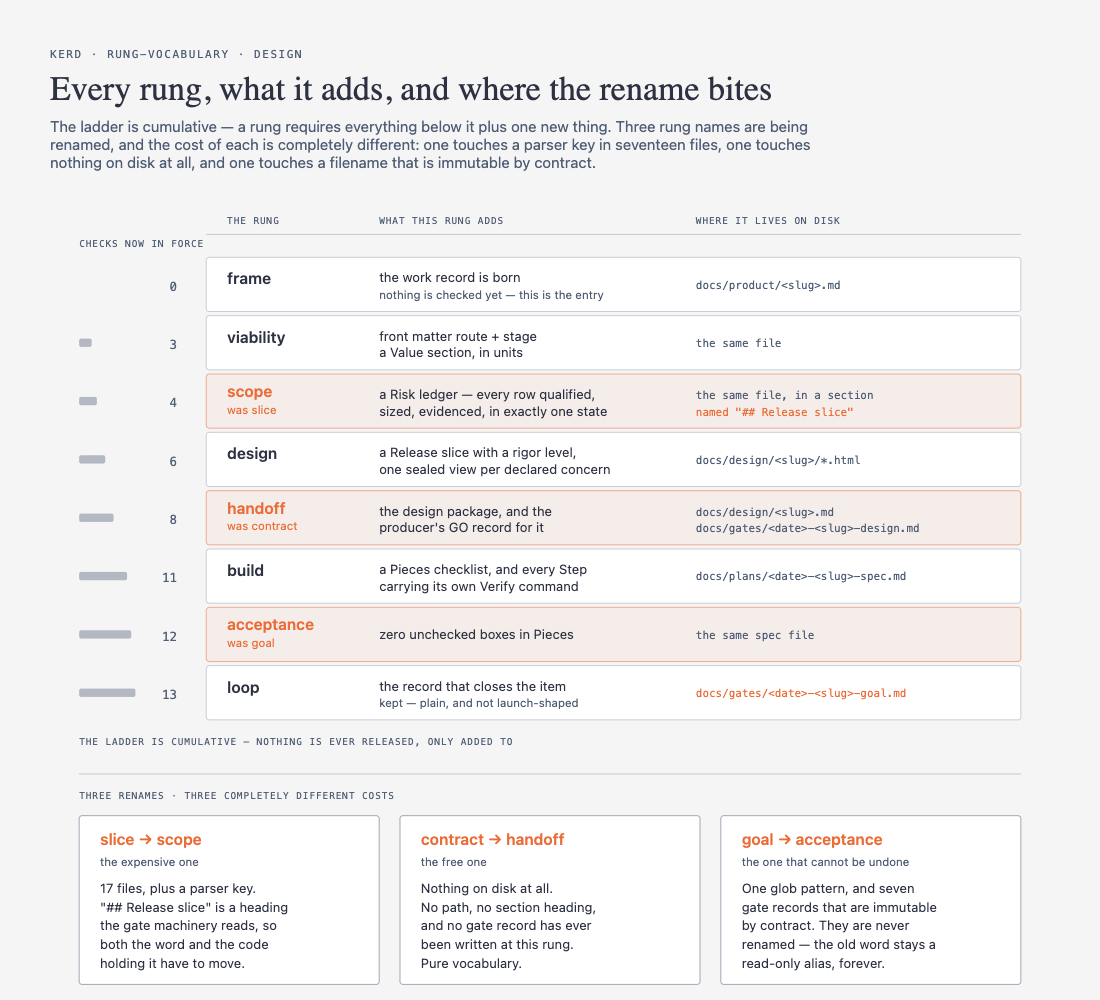
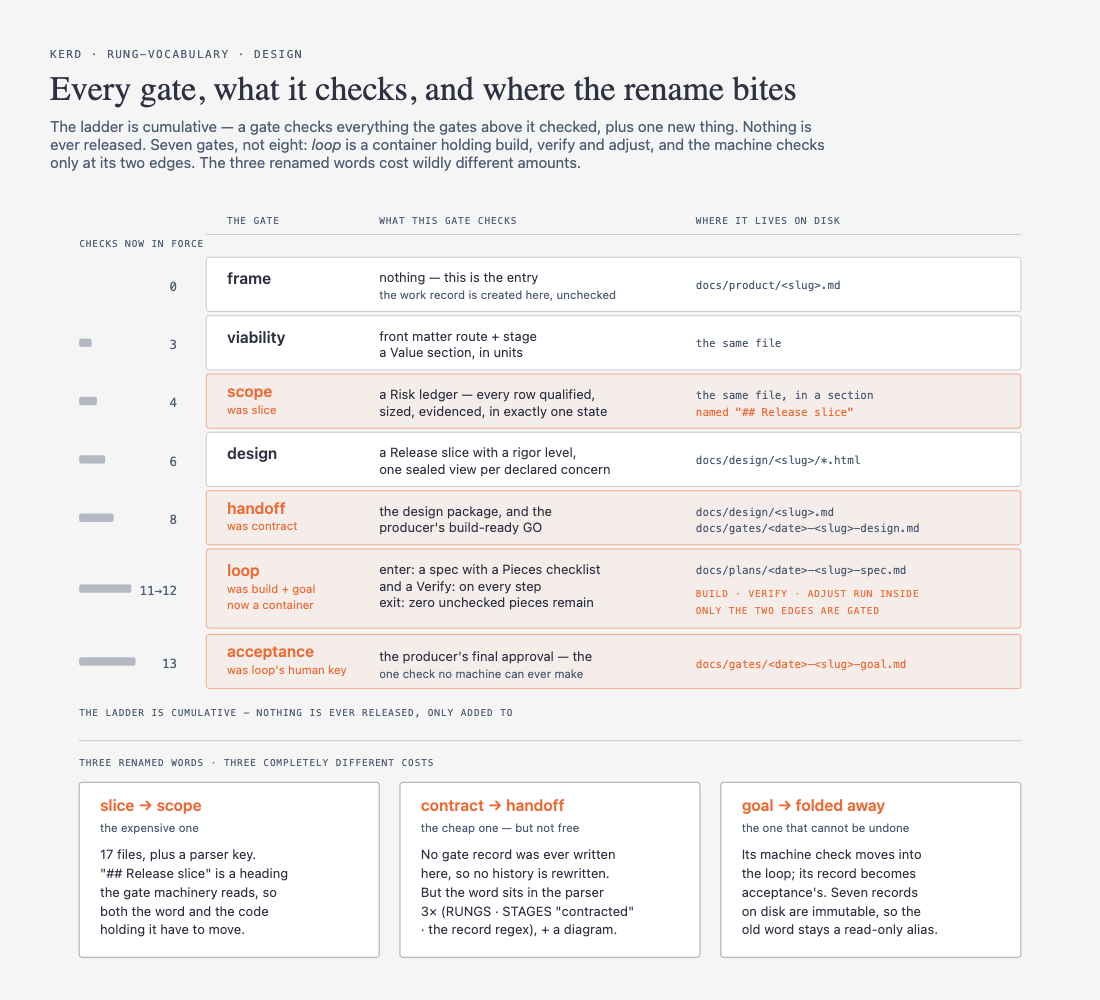
Seal the-ladder; correct the matrix view's overclaim and its mixed column
the-ladder.html approved by Tony 2026-08-23 (fp:a6fe2ec1e1c3) — unchanged
since he reviewed it.

rungs-and-artifacts.html was drawn before the restructure and still showed
build, acceptance and loop as peer rows. Redrawn for seven gates, with loop
as one row carrying both gated edges and acceptance last.

Two corrections from the review, both real:

  - The handoff panel overclaimed. "Nothing on disk at all · pure vocabulary"
    is false: `contract` has no immutable gate record (0 on disk, verified),
    but it sits in the parser three times — RUNGS, STAGES as `contracted`,
    and GATE_RECORD_RE — plus a flow diagram and its generator. Now reads
    "the cheap one — but not free" with those counts.

  - The middle column mixed two ideas: what a gate CHECKS and what it
    PRODUCES. It is derived from check_rung, so it is checks. Column, title
    and heading all now say checks, and the frame row reads "nothing — this
    is the entry" rather than describing a produced artifact.

Still unapproved, so the item correctly stays at slice.

Claude-Session: https://claude.ai/code/session_01EhZfBJVAkJfHw2HhQ86Ldf

diff --git a/docs/design/rung-vocabulary/rungs-and-artifacts.html b/docs/design/rung-vocabulary/rungs-and-artifacts.html
@@ -2,7 +2,7 @@
 <html lang="en">
 <head>
   <meta charset="utf-8">
-  <title>Every rung, what it adds, and where the rename bites</title>
+  <title>Every gate, what it checks, and where the rename bites</title>
   <style>
     :root{--color-paper:#f5f5f5;--color-ink:#2d3142;--color-muted:#4f5d75;
           --color-accent:#eb6c36;--font-sans:'Geist',system-ui,sans-serif;
@@ -18,17 +18,18 @@
 <body>
   <div class="wrap">
     <p class="eyebrow">Kerd · rung-vocabulary · design</p>
-    <h1>Every rung, what it adds, and where the rename bites</h1>
-    <p class="sub">The ladder is cumulative — a rung requires everything below it plus one new thing. Three rung names are being renamed, and the cost of each is completely different: one touches a parser key in seventeen files, one touches nothing on disk at all, and one touches a filename that is immutable by contract.</p>
-    <svg viewBox="0 0 960 792" role="img" aria-labelledby="rv-t rv-d">
-      <title id="rv-t">The eight rungs, the artifact each one adds, and the cost of the three renames</title>
-      <desc id="rv-d">A table of the eight ladder rungs read top to bottom: frame, viability, scope (renamed from slice), design, handoff (renamed from contract), build, acceptance (renamed from goal), and loop. For each rung, the middle column names the one new thing that rung requires and the right column names the file on disk that holds it. Requirements accumulate: a rung needs everything the rungs below it needed, plus its own. Below the table, three panels compare the real cost of the three renames. Renaming slice to scope costs seventeen files plus a parser key, because the section heading Release slice is read by the gate machinery. Renaming contract to handoff costs nothing on disk, because no path, section heading or gate record has ever carried the word. Renaming goal to acceptance costs one glob pattern plus seven immutable gate records, which are never rewritten and instead keep the old name as a read-only parser alias forever.</desc>
+    <h1>Every gate, what it checks, and where the rename bites</h1>
+    <p class="sub">The ladder is cumulative — a gate checks everything the gates above it checked, plus one new thing. Nothing is ever released. Seven gates, not eight: <em>loop</em> is a container holding build, verify and adjust, and the machine checks only at its two edges. The three renamed words cost wildly different amounts.</p>
+    <svg viewBox="0 0 960 745" role="img" aria-labelledby="rv-t rv-d">
+      <title id="rv-t">The seven gates, what each checks, and the cost of the three renamed words</title>
+      <desc id="rv-d">A table of the seven ladder gates read top to bottom: frame, viability, scope (renamed from slice), design, handoff (renamed from contract), loop, and acceptance (which takes over the human key that used to sit at loop). A running count on the left shows how many checks are in force, growing from zero at frame to thirteen at acceptance. The middle column names what that gate checks; the right column names the file on disk that holds it. The loop row is taller because the machine checks at two edges rather than one: entering requires a spec with a Pieces checklist and a Verify command on every step, and leaving requires zero unchecked pieces. Build, verify and adjust happen inside the loop and are deliberately not gates. Below, three panels compare the cost of the three renamed words. Slice to scope costs seventeen files plus a parser key, because the heading Release slice is read by the gate machinery. Contract to handoff costs no rewritten history, because no gate record was ever written at that gate, but the word still sits in the parser three times and in a flow diagram. Goal is folded away entirely: its machine check moves into the loop and its record becomes acceptance's, with seven immutable records on disk keeping the old word alive as a read-only alias.</desc>
       <defs>
         <style>
           .n{font-family:var(--font-sans);font-size:12.5px;fill:var(--color-ink);}
           .b{font-family:var(--font-sans);font-size:15px;font-weight:600;fill:var(--color-ink);}
           .ba{font-family:var(--font-sans);font-size:15px;font-weight:600;fill:var(--color-accent);}
           .e{font-family:var(--font-mono);font-size:9px;letter-spacing:.1em;text-transform:uppercase;fill:var(--color-muted);}
+          .ea{font-family:var(--font-mono);font-size:9px;letter-spacing:.1em;text-transform:uppercase;fill:var(--color-accent);}
           .m{font-family:var(--font-sans);font-size:11px;fill:var(--color-muted);}
           .ma{font-family:var(--font-sans);font-size:11px;fill:var(--color-accent);}
           .mono{font-family:var(--font-mono);font-size:10.5px;fill:var(--color-muted);}
@@ -42,24 +43,21 @@
         </style>
       </defs>
 
-      <!-- ===== column headers ===== -->
-      <text class="e" x="170" y="24">the rung</text>
-      <text class="e" x="316" y="24">what this rung adds</text>
+      <text class="e" x="170" y="24">the gate</text>
+      <text class="e" x="316" y="24">what this gate checks</text>
       <text class="e" x="620" y="24">where it lives on disk</text>
       <line class="rule" x1="150" y1="34" x2="932" y2="34"/>
-
       <text class="e" x="28" y="46">checks now in force</text>
 
-      <!-- ===== row 1 — frame ===== -->
+      <!-- frame -->
       <rect class="row" x="150" y="56" width="782" height="52" rx="3"/>
-      <rect class="tally" x="28" y="78" width="0" height="8" rx="2"/>
       <text class="cnt"  x="122" y="88" text-anchor="end">0</text>
       <text class="b"    x="170" y="82">frame</text>
-      <text class="n"    x="316" y="80">the work record is born</text>
-      <text class="m"    x="316" y="96">nothing is checked yet — this is the entry</text>
+      <text class="n"    x="316" y="80">nothing — this is the entry</text>
+      <text class="m"    x="316" y="96">the work record is created here, unchecked</text>
       <text class="mono" x="620" y="86">docs/product/&lt;slug&gt;.md</text>
 
-      <!-- ===== row 2 — viability ===== -->
+      <!-- viability -->
       <rect class="row" x="150" y="112" width="782" height="52" rx="3"/>
       <rect class="tally" x="28" y="134" width="12" height="8" rx="2"/>
       <text class="cnt"  x="122" y="144" text-anchor="end">3</text>
@@ -68,7 +66,7 @@
       <text class="n"    x="316" y="152">a Value section, in units</text>
       <text class="mono" x="620" y="142">the same file</text>
 
-      <!-- ===== row 3 — scope (RENAMED) ===== -->
+      <!-- scope -->
       <rect class="rowa" x="150" y="168" width="782" height="52" rx="3"/>
       <rect class="tally" x="28" y="190" width="17" height="8" rx="2"/>
       <text class="cnt"  x="122" y="200" text-anchor="end">4</text>
@@ -79,7 +77,7 @@
       <text class="mono" x="620" y="192">the same file, in a section</text>
       <text class="monoa" x="620" y="208">named "## Release slice"</text>
 
-      <!-- ===== row 4 — design ===== -->
+      <!-- design -->
       <rect class="row" x="150" y="224" width="782" height="52" rx="3"/>
       <rect class="tally" x="28" y="246" width="25" height="8" rx="2"/>
       <text class="cnt"  x="122" y="256" text-anchor="end">6</text>
@@ -88,79 +86,73 @@
       <text class="n"    x="316" y="264">one sealed view per declared concern</text>
       <text class="mono" x="620" y="254">docs/design/&lt;slug&gt;/*.html</text>
 
-      <!-- ===== row 5 — handoff (RENAMED) ===== -->
+      <!-- handoff -->
       <rect class="rowa" x="150" y="280" width="782" height="52" rx="3"/>
       <rect class="tally" x="28" y="302" width="33" height="8" rx="2"/>
       <text class="cnt"  x="122" y="312" text-anchor="end">8</text>
       <text class="ba"   x="170" y="302">handoff</text>
       <text class="ma"   x="170" y="318">was contract</text>
       <text class="n"    x="316" y="304">the design package, and the</text>
-      <text class="n"    x="316" y="320">producer's GO record for it</text>
+      <text class="n"    x="316" y="320">producer's build-ready GO</text>
       <text class="mono" x="620" y="304">docs/design/&lt;slug&gt;.md</text>
       <text class="mono" x="620" y="320">docs/gates/&lt;date&gt;-&lt;slug&gt;-design.md</text>
 
-      <!-- ===== row 6 — build ===== -->
-      <rect class="row" x="150" y="336" width="782" height="52" rx="3"/>
-      <rect class="tally" x="28" y="358" width="46" height="8" rx="2"/>
-      <text class="cnt"  x="122" y="368" text-anchor="end">11</text>
-      <text class="b"    x="170" y="362">build</text>
-      <text class="n"    x="316" y="360">a Pieces checklist, and every Step</text>
-      <text class="n"    x="316" y="376">carrying its own Verify command</text>
-      <text class="mono" x="620" y="366">docs/plans/&lt;date&gt;-&lt;slug&gt;-spec.md</text>
+      <!-- loop (container, two gated edges) -->
+      <rect class="rowa" x="150" y="336" width="782" height="76" rx="3"/>
+      <rect class="tally" x="28" y="370" width="50" height="8" rx="2"/>
+      <text class="cnt"  x="122" y="380" text-anchor="end">11&#8594;12</text>
+      <text class="ba"   x="170" y="362">loop</text>
+      <text class="ma"   x="170" y="378">was build + goal</text>
+      <text class="ma"   x="170" y="394">now a container</text>
+      <text class="n"    x="316" y="360">enter: a spec with a Pieces checklist</text>
+      <text class="n"    x="316" y="376">and a Verify: on every step</text>
+      <text class="n"    x="316" y="392">exit: zero unchecked pieces remain</text>
+      <text class="mono" x="620" y="360">docs/plans/&lt;date&gt;-&lt;slug&gt;-spec.md</text>
+      <text class="ea"   x="620" y="382">build · verify · adjust run INSIDE</text>
+      <text class="ea"   x="620" y="398">only the two edges are gated</text>
 
-      <!-- ===== row 7 — acceptance (RENAMED) ===== -->
-      <rect class="rowa" x="150" y="392" width="782" height="52" rx="3"/>
-      <rect class="tally" x="28" y="414" width="50" height="8" rx="2"/>
-      <text class="cnt"  x="122" y="424" text-anchor="end">12</text>
-      <text class="ba"   x="170" y="414">acceptance</text>
-      <text class="ma"   x="170" y="430">was goal</text>
-      <text class="n"    x="316" y="422">zero unchecked boxes in Pieces</text>
-      <text class="mono" x="620" y="422">the same spec file</text>
+      <!-- acceptance -->
+      <rect class="rowa" x="150" y="418" width="782" height="52" rx="3"/>
+      <rect class="tally" x="28" y="440" width="54" height="8" rx="2"/>
+      <text class="cnt"  x="122" y="450" text-anchor="end">13</text>
+      <text class="ba"   x="170" y="440">acceptance</text>
+      <text class="ma"   x="170" y="456">was loop's human key</text>
+      <text class="n"    x="316" y="444">the producer's final approval — the</text>
+      <text class="m"    x="316" y="460">one check no machine can ever make</text>
+      <text class="monoa" x="620" y="450">docs/gates/&lt;date&gt;-&lt;slug&gt;-goal.md</text>
 
-      <!-- ===== row 8 — loop ===== -->
-      <rect class="row" x="150" y="448" width="782" height="52" rx="3"/>
-      <rect class="tally" x="28" y="470" width="54" height="8" rx="2"/>
-      <text class="cnt"  x="122" y="480" text-anchor="end">13</text>
-      <text class="b"    x="170" y="474">loop</text>
-      <text class="n"    x="316" y="472">the record that closes the item</text>
-      <text class="m"    x="316" y="488">kept — plain, and not launch-shaped</text>
-      <text class="monoa" x="620" y="478">docs/gates/&lt;date&gt;-&lt;slug&gt;-goal.md</text>
-
-      <text class="e" x="28" y="524">the ladder is cumulative — nothing is ever released, only added to</text>
+      <text class="e" x="28" y="496">the ladder is cumulative — nothing is ever released, only added to</text>
 
       <!-- ===== bottom: the three costs ===== -->
-      <line class="rule" x1="28" y1="552" x2="932" y2="552"/>
-      <text class="e" x="28" y="576">three renames · three completely different costs</text>
+      <line class="rule" x1="28" y1="520" x2="932" y2="520"/>
+      <text class="e" x="28" y="544">three renamed words · three completely different costs</text>
 
-      <!-- panel A -->
-      <rect class="panel" x="28" y="592" width="288" height="162" rx="3"/>
-      <text class="ba"   x="48" y="620">slice → scope</text>
-      <text class="m"    x="48" y="640">the expensive one</text>
-      <text class="n"    x="48" y="666">17 files, plus a parser key.</text>
-      <text class="n"    x="48" y="684">"## Release slice" is a heading</text>
-      <text class="n"    x="48" y="702">the gate machinery reads, so</text>
-      <text class="n"    x="48" y="720">both the word and the code</text>
-      <text class="n"    x="48" y="738">holding it have to move.</text>
+      <rect class="panel" x="28" y="560" width="288" height="168" rx="3"/>
+      <text class="ba"   x="48" y="588">slice → scope</text>
+      <text class="m"    x="48" y="608">the expensive one</text>
+      <text class="n"    x="48" y="634">17 files, plus a parser key.</text>
+      <text class="n"    x="48" y="652">"## Release slice" is a heading</text>
+      <text class="n"    x="48" y="670">the gate machinery reads, so</text>
+      <text class="n"    x="48" y="688">both the word and the code</text>
+      <text class="n"    x="48" y="706">holding it have to move.</text>
 
-      <!-- panel B -->
-      <rect class="panel" x="336" y="592" width="288" height="162" rx="3"/>
-      <text class="ba"   x="356" y="620">contract → handoff</text>
-      <text class="m"    x="356" y="640">the free one</text>
-      <text class="n"    x="356" y="666">Nothing on disk at all.</text>
-      <text class="n"    x="356" y="684">No path, no section heading,</text>
-      <text class="n"    x="356" y="702">and no gate record has ever</text>
-      <text class="n"    x="356" y="720">been written at this rung.</text>
-      <text class="n"    x="356" y="738">Pure vocabulary.</text>
+      <rect class="panel" x="336" y="560" width="288" height="168" rx="3"/>
+      <text class="ba"   x="356" y="588">contract → handoff</text>
+      <text class="m"    x="356" y="608">the cheap one — but not free</text>
+      <text class="n"    x="356" y="634">No gate record was ever written</text>
+      <text class="n"    x="356" y="652">here, so no history is rewritten.</text>
+      <text class="n"    x="356" y="670">But the word sits in the parser</text>
+      <text class="n"    x="356" y="688">3× (RUNGS · STAGES "contracted"</text>
+      <text class="n"    x="356" y="706">· the record regex), + a diagram.</text>
 
-      <!-- panel C -->
-      <rect class="panel" x="644" y="592" width="288" height="162" rx="3"/>
-      <text class="ba"   x="664" y="620">goal → acceptance</text>
-      <text class="m"    x="664" y="640">the one that cannot be undone</text>
-      <text class="n"    x="664" y="666">One glob pattern, and seven</text>
-      <text class="n"    x="664" y="684">gate records that are immutable</text>
-      <text class="n"    x="664" y="702">by contract. They are never</text>
-      <text class="n"    x="664" y="720">renamed — the old word stays a</text>
-      <text class="n"    x="664" y="738">read-only alias, forever.</text>
+      <rect class="panel" x="644" y="560" width="288" height="168" rx="3"/>
+      <text class="ba"   x="664" y="588">goal → folded away</text>
+      <text class="m"    x="664" y="608">the one that cannot be undone</text>
+      <text class="n"    x="664" y="634">Its machine check moves into</text>
+      <text class="n"    x="664" y="652">the loop; its record becomes</text>
+      <text class="n"    x="664" y="670">acceptance's. Seven records</text>
+      <text class="n"    x="664" y="688">on disk are immutable, so the</text>
+      <text class="n"    x="664" y="706">old word stays a read-only alias.</text>
     </svg>
   </div>
 </body>

diff --git a/docs/product/rung-vocabulary.md b/docs/product/rung-vocabulary.md
@@ -3,12 +3,13 @@ route: new
 stage: framed
 story: proposal
 concerns:
-  - concern: what each gate requires, and where each rename actually bites
+  - concern: what each gate checks, and what each renamed word actually costs
     viewpoint: matrix
     view: docs/design/rung-vocabulary/rungs-and-artifacts.html
   - concern: why loop is a container and acceptance is the producer's last gate
     viewpoint: nested
     view: docs/design/rung-vocabulary/the-ladder.html
+    approval: Tony, 2026-08-23 · fp:a6fe2ec1e1c3
 ---
 
 # Three rung names only work for software — and drawing the ladder found a fourth defect
